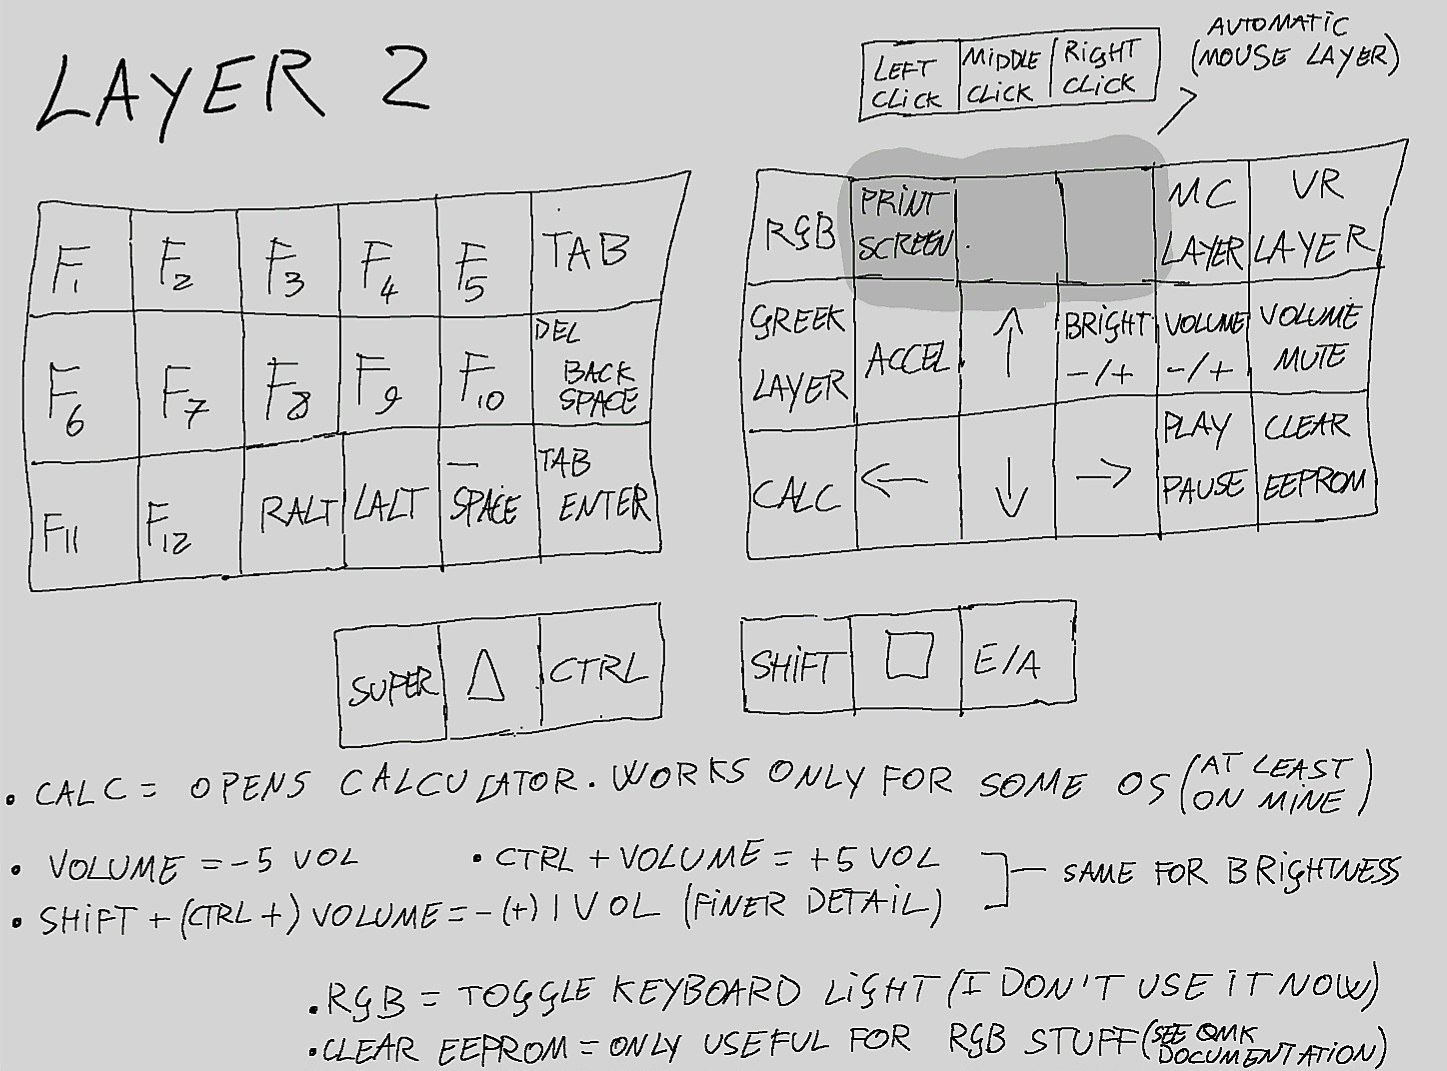
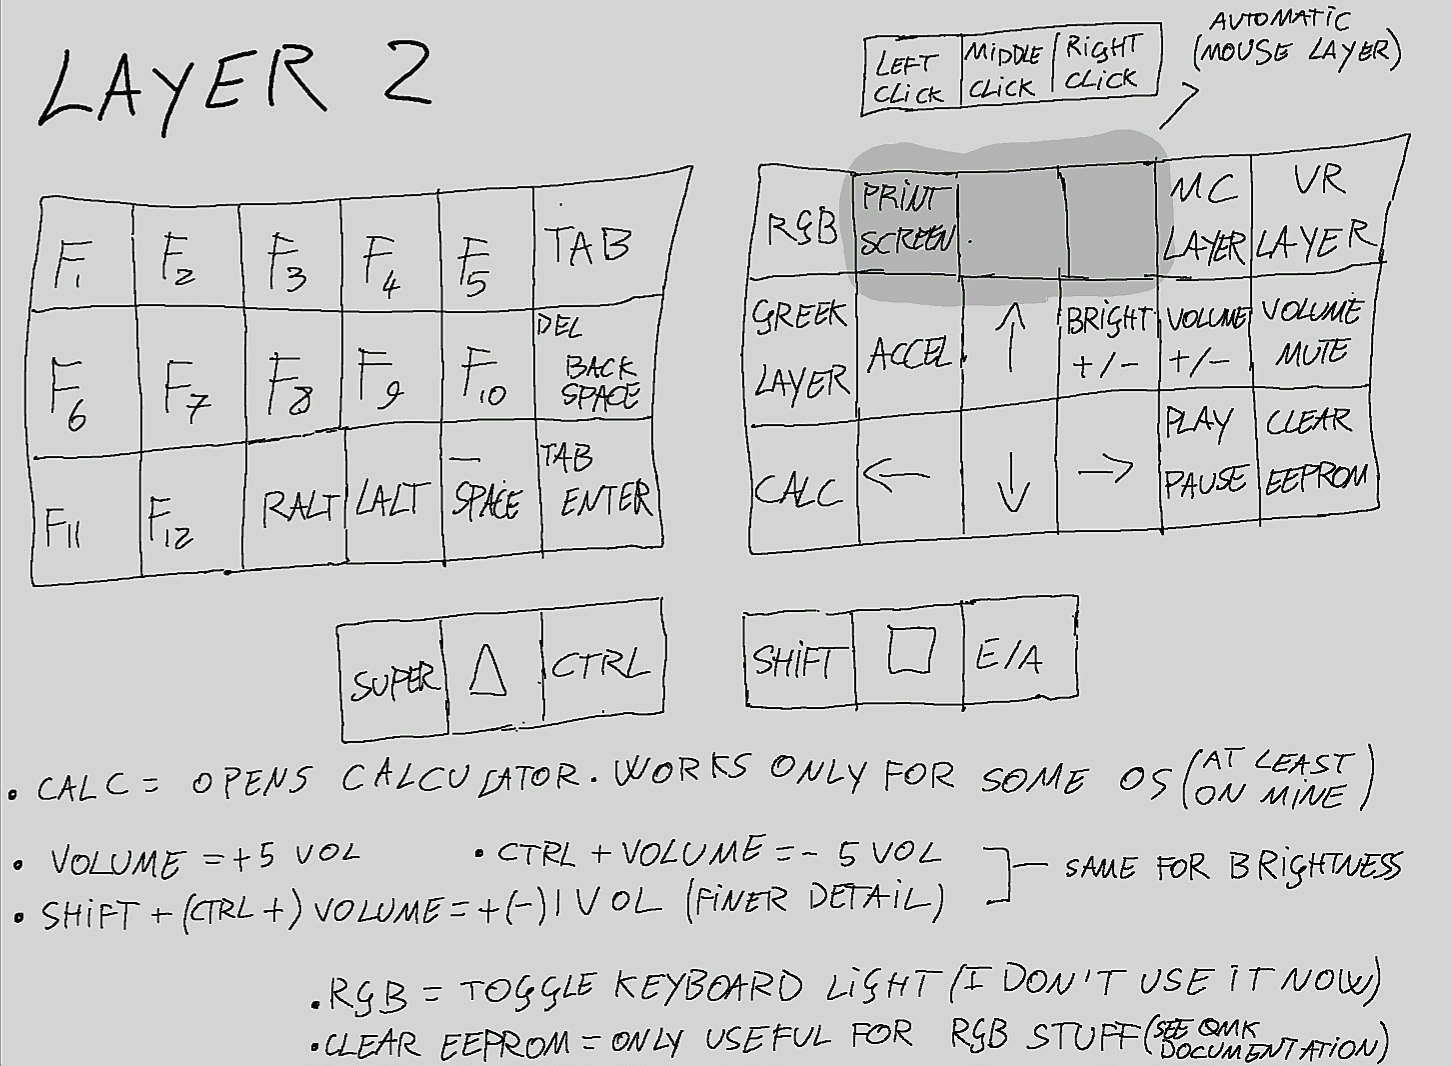
updated user files

diff --git a/Elil_50/keymap.c b/Elil_50/keymap.c
@@ -375,8 +375,8 @@ const key_override_t override_23 = ko_make_basic(MOD_MASK_SHIFT, KC_BSPC, KC_DEL
 const key_override_t override_24 = ko_make_basic(MOD_MASK_SHIFT, KC_AMPR, KC_AT);
 const key_override_t override_25 = ko_make_basic(MOD_MASK_SHIFT, KC_QUES, KC_EXLM);
 const key_override_t override_27 = ko_make_basic(MOD_MASK_SHIFT, KC_PAST, KC_SLASH);
-const key_override_t override_28 = ko_make_basic(MOD_MASK_CTRL, KC_VOLD, KC_VOLU);
-const key_override_t override_29 = ko_make_basic(MOD_MASK_CTRL, KC_BRID, KC_BRIU);
+const key_override_t override_28 = ko_make_basic(MOD_MASK_CTRL, KC_VOLU, KC_VOLD);
+const key_override_t override_29 = ko_make_basic(MOD_MASK_CTRL, KC_BRIU, KC_BRID);
 
 const key_override_t *key_overrides[] = {
   &override_1,
@@ -637,7 +637,7 @@ const uint16_t PROGMEM keymaps[][MATRIX_ROWS][MATRIX_COLS] = {
     //,-----------------------------------------------------.                    ,-----------------------------------------------------.
          KC_F1,   KC_F2,   KC_F3,   KC_F4,   KC_F5,  KC_TAB ,                    UG_TOGG,KC_PSCR,XXXXXXX,XXXXXXX,TG(ADD_LAYER+1),TG(ADD_LAYER),
     //|--------+--------+--------+--------+--------+--------|                    |--------+--------+--------+--------+--------+--------|
-        KC_F6,    KC_F7,   KC_F8,   KC_F9,  KC_F10,  KC_BSPC,                   GREEK_LAYER, ACCEL,   KC_UP,  KC_BRID,  KC_VOLD, KC_MUTE,
+        KC_F6,    KC_F7,   KC_F8,   KC_F9,  KC_F10,  KC_BSPC,                   GREEK_LAYER, ACCEL,   KC_UP,  KC_BRIU,  KC_VOLU, KC_MUTE,
     //|--------+--------+--------+--------+--------+--------|                    |--------+--------+--------+--------+--------+--------|
         KC_F11,   KC_F12, KC_RALT, KC_LALT, KC_SPC, KC_ENTER,            	  KC_CALC, KC_LEFT, KC_DOWN, KC_RIGHT, KC_MPLY, EE_CLR,
     //|--------+--------+--------+--------+--------+--------+--------|  |--------+--------+--------+--------+--------+--------+--------|
